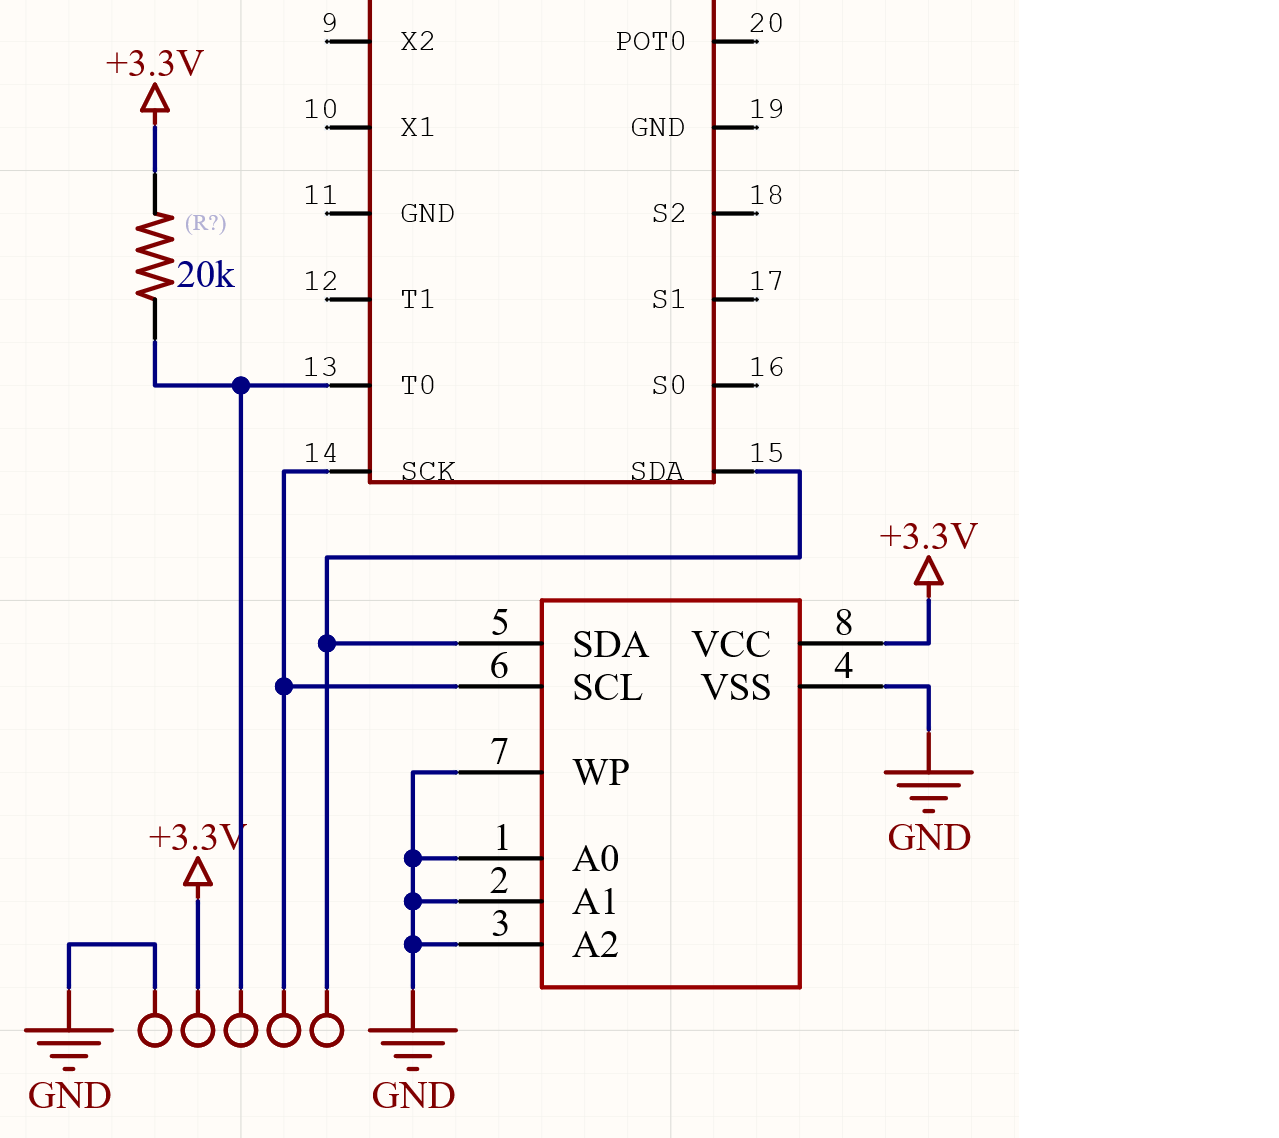
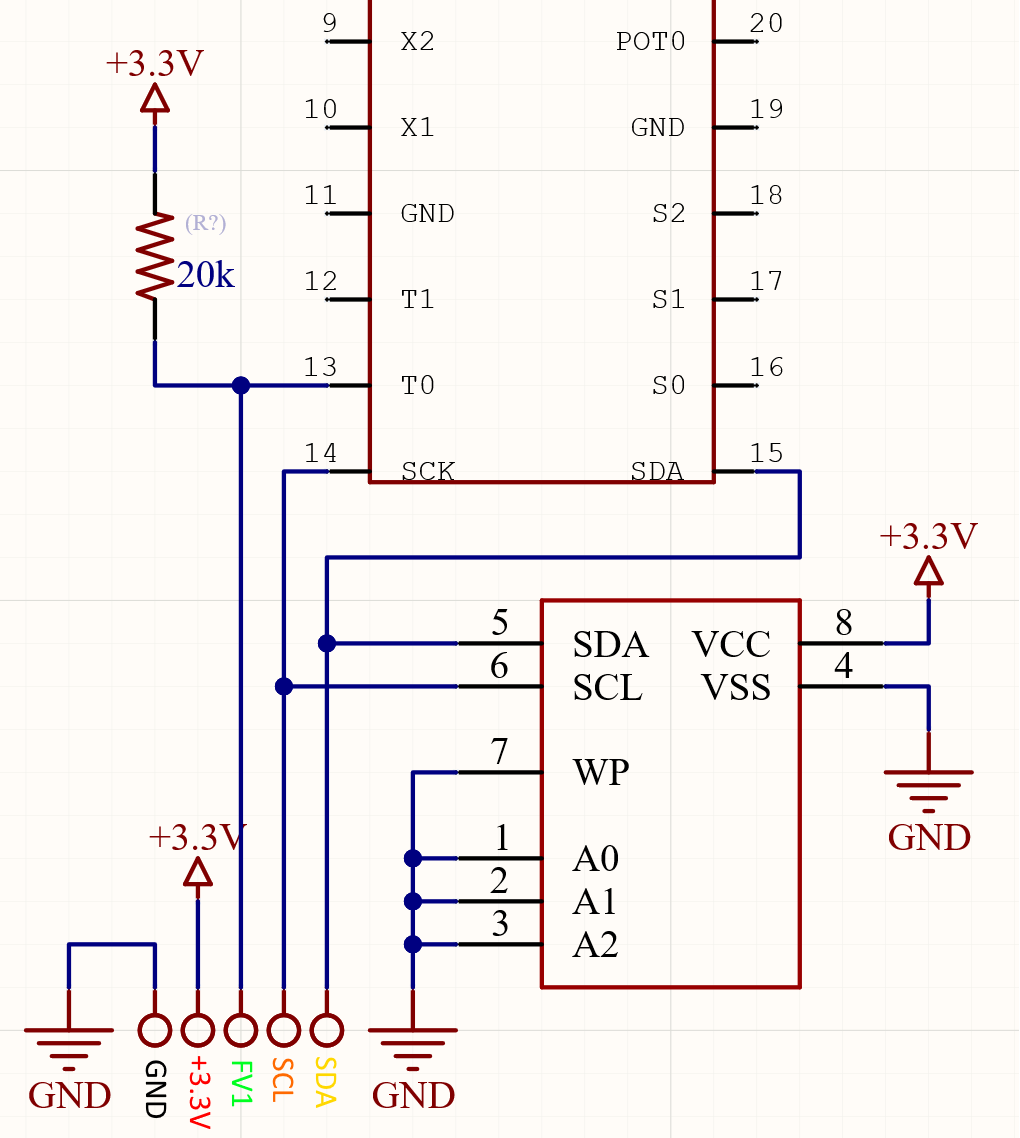
20210119/09:36

diff --git a/README.md b/README.md
@@ -200,7 +200,11 @@ And upload the firmware :
 
 ### Programmer wiring
 
-The target circuit should look like this:
+The target circuit should look like this and expose the following pins via some kind of header:
+
+<p align="center">
+  <img src="_images/schem.png">
+</p>
 
 
 
